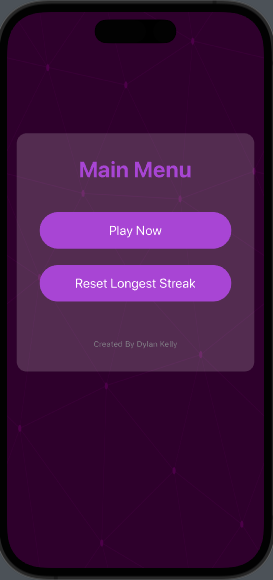
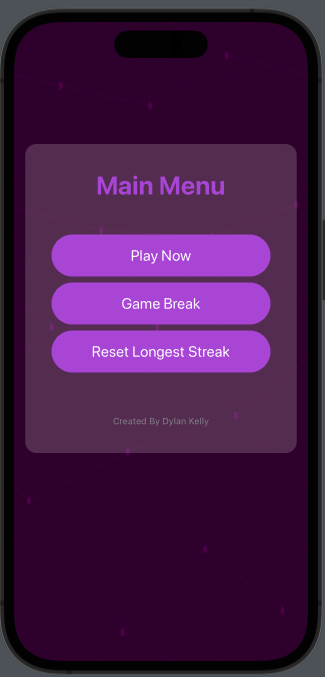
updated readme with pictures, quotes, and added functionality

Changed region(s): [[0.0, 0.0, 1.0, 1.0], [0.1465, 0.3414, 0.8498, 0.5586]]

diff --git a/War Card Came/ViewModel/QuoteHandler.swift b/War Card Came/ViewModel/QuoteHandler.swift
@@ -26,12 +26,12 @@ class QuoteHandler : ObservableObject {
     }
     
     func getSingleQuote() -> Quotes {
-        let rand = Int.random(in: 2...quotes.count-1)
+        let rand = Int.random(in: 0...quotes.count-1)
         return self.quotes[rand]
     }
     
     func setNewQuote() -> Void {
-        let rand = Int.random(in: 2...quotes.count-1)
+        let rand = Int.random(in: 0...quotes.count-1)
         self.singleQuote = self.quotes[rand]
     }
     

diff --git a/README.md b/README.md
@@ -11,7 +11,11 @@ An iOS app built as a basic war game with enhanced features
 - Reset Longest Streak: Users can now reset their longest win streak
 - Multiple Games: Don't just play once play again and again!
 - Placing bets: Added fun and easy way for users to bet against the computer
+- a game break screen to take a break
+- horizonal carousel for scrolling quotes
+- Random quote generator to generate random quotes
 
 ## Images
 ![The main Menu of the application](/images/mainmenu.png)
 ![The main game interface](/images/maingame.png)
+![The game break interface](/images/gamebreak.png)
